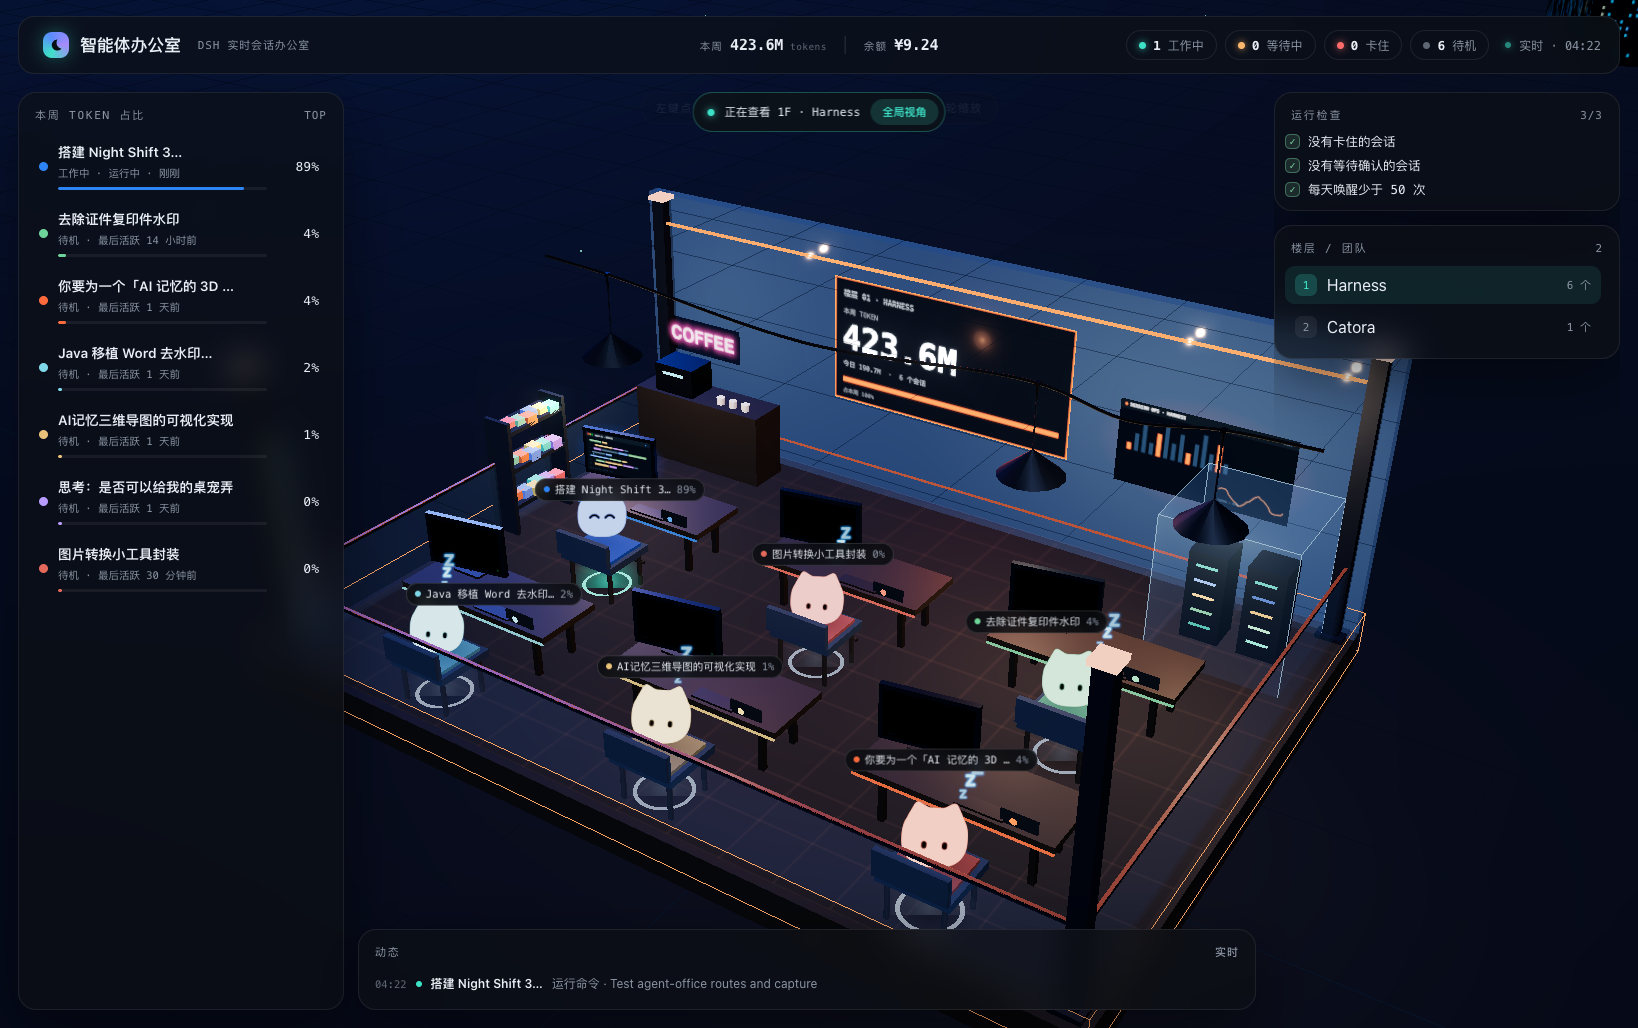
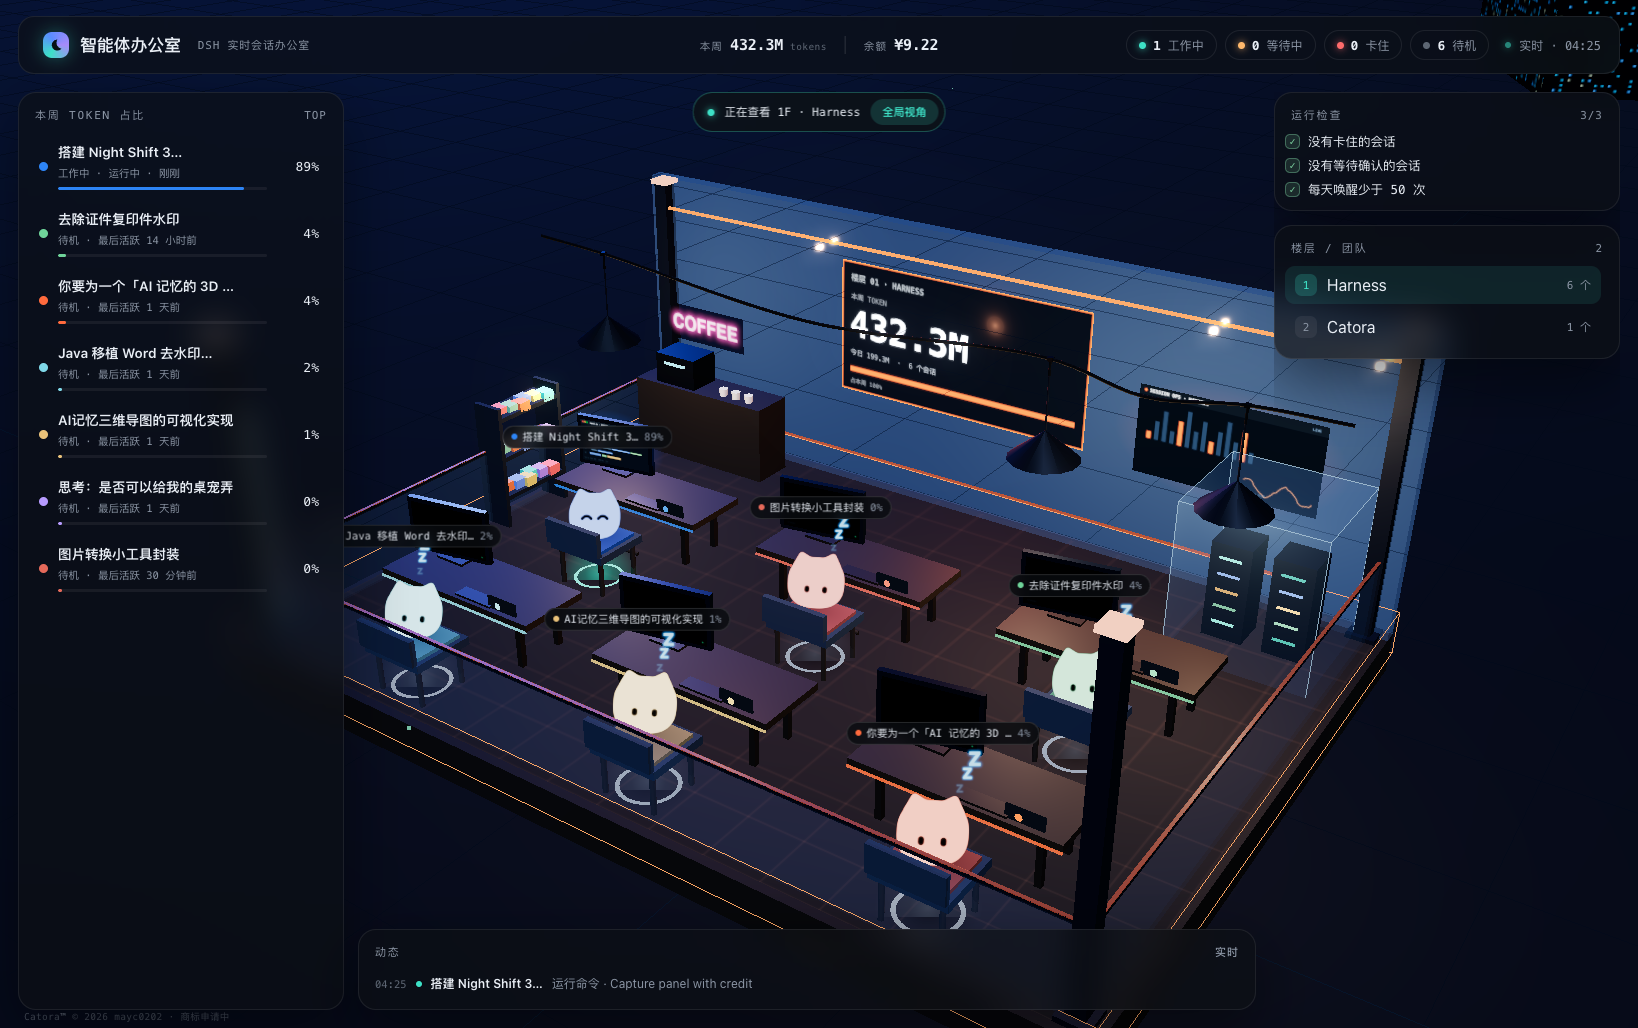
feat(hud): 左下角增加 Catora™ 版权署名
- 小字号低透明度：Catora™ © 2026 mayc0202 · 商标申请中
- 版本 4.1.2

diff --git a/lib/panel.html b/lib/panel.html
@@ -173,6 +173,8 @@
   #focusChip button{height:26px;padding:0 12px;border-radius:999px;border:0;background:rgba(61,225,198,.16);color:var(--acc);font-family:var(--mono);font-size:11px;font-weight:600;cursor:pointer}
   #focusChip button:hover{background:rgba(61,225,198,.26)}
   #focusChip button:focus-visible{outline:2px solid var(--acc);outline-offset:2px}
+  #credit{position:absolute;left:24px;bottom:5px;z-index:8;font-family:var(--mono);font-size:9.5px;letter-spacing:.3px;color:var(--dim-2);opacity:.72;pointer-events:none;white-space:nowrap}
+  #credit b{font-weight:600;color:var(--dim)}
   #hint{position:absolute;left:50%;top:92px;transform:translateX(-50%);z-index:8;font-family:var(--mono);font-size:11px;letter-spacing:1.2px;color:rgba(138,148,163,.85);background:rgba(12,15,20,.66);border:1px solid var(--line);border-radius:999px;padding:7px 14px;backdrop-filter:blur(12px);transition:opacity .8s;white-space:nowrap}
   #hint.hide{opacity:0}
   #hint.lower{top:auto;bottom:20px}
@@ -290,6 +292,8 @@
     <span id="focusText">正在查看 1 层</span>
     <button type="button" id="focusBack">全局视角</button>
   </div>
+  <div id="credit">Catora<b>™</b> © 2026 mayc0202 · 商标申请中</div>
+
   <div id="hint">左键点楼层聚焦 · 右键返回全局 · 拖动旋转 · 滚轮缩放</div>
   <div id="offline">正在连接 DSH 会话数据…</div>
 </div>

diff --git a/panel-src/index.html b/panel-src/index.html
@@ -173,6 +173,8 @@
   #focusChip button{height:26px;padding:0 12px;border-radius:999px;border:0;background:rgba(61,225,198,.16);color:var(--acc);font-family:var(--mono);font-size:11px;font-weight:600;cursor:pointer}
   #focusChip button:hover{background:rgba(61,225,198,.26)}
   #focusChip button:focus-visible{outline:2px solid var(--acc);outline-offset:2px}
+  #credit{position:absolute;left:24px;bottom:5px;z-index:8;font-family:var(--mono);font-size:9.5px;letter-spacing:.3px;color:var(--dim-2);opacity:.72;pointer-events:none;white-space:nowrap}
+  #credit b{font-weight:600;color:var(--dim)}
   #hint{position:absolute;left:50%;top:92px;transform:translateX(-50%);z-index:8;font-family:var(--mono);font-size:11px;letter-spacing:1.2px;color:rgba(138,148,163,.85);background:rgba(12,15,20,.66);border:1px solid var(--line);border-radius:999px;padding:7px 14px;backdrop-filter:blur(12px);transition:opacity .8s;white-space:nowrap}
   #hint.hide{opacity:0}
   #hint.lower{top:auto;bottom:20px}
@@ -290,6 +292,8 @@
     <span id="focusText">正在查看 1 层</span>
     <button type="button" id="focusBack">全局视角</button>
   </div>
+  <div id="credit">Catora<b>™</b> © 2026 mayc0202 · 商标申请中</div>
+
   <div id="hint">左键点楼层聚焦 · 右键返回全局 · 拖动旋转 · 滚轮缩放</div>
   <div id="offline">正在连接 DSH 会话数据…</div>
 </div>
